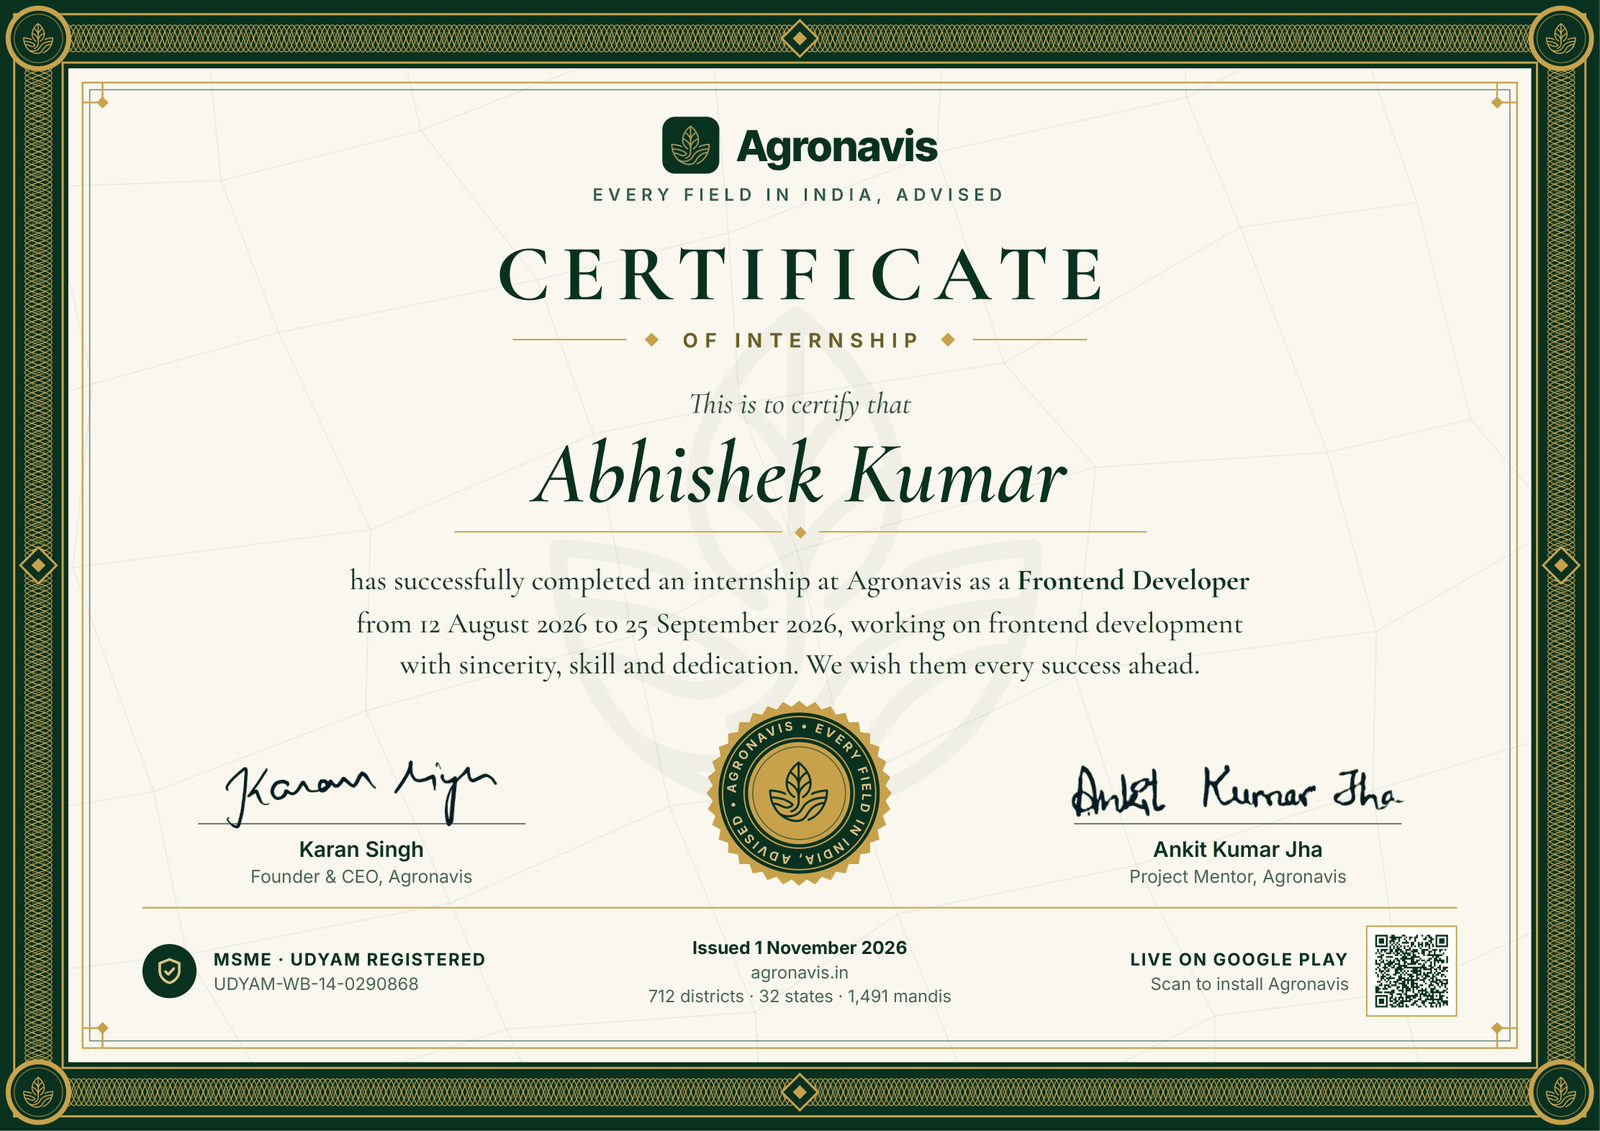
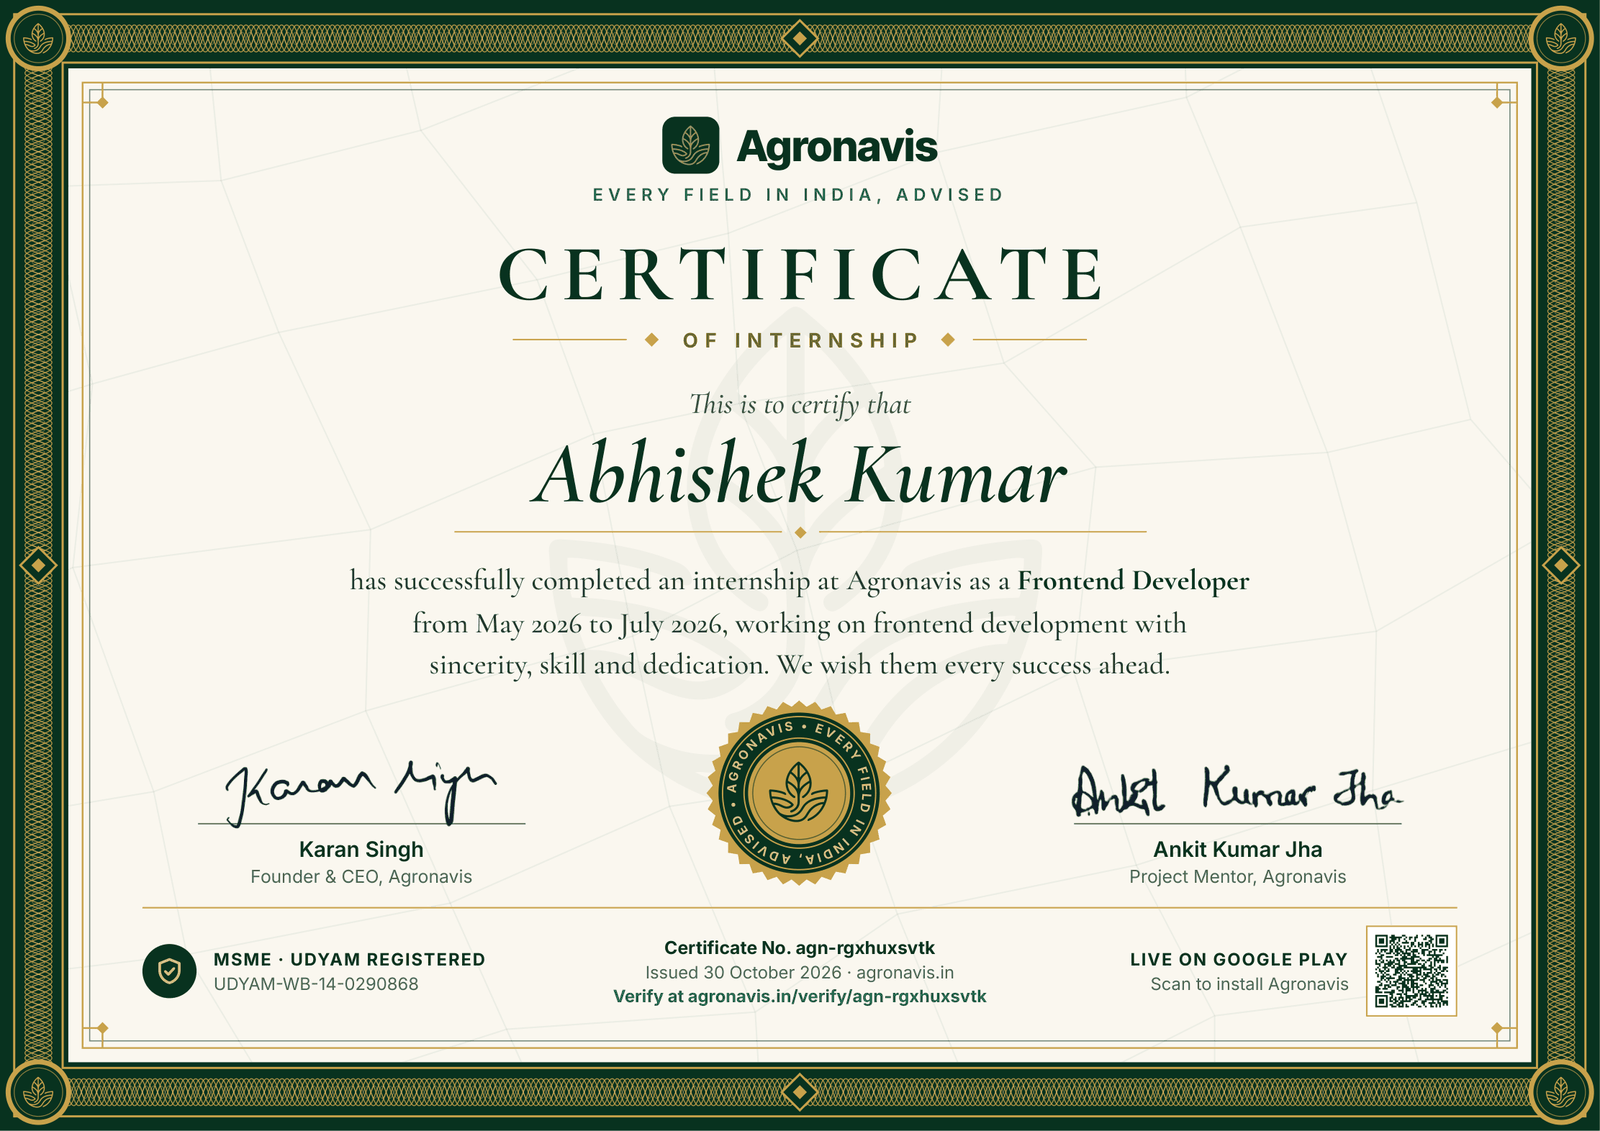
certificate: correct Abhishek Kumar to the reissued document
The reprint carries the certificate number and a different period, May to
July 2026, stated as months rather than exact days.

Dates may now be written as YYYY-MM where that is all the certificate claims.
Rendering 1 May 2026 for a document that says May 2026 would invent precision,
and the page tells verifiers the dates must match the printed copy exactly, so
it has to hold itself to that.

Changed region(s): [[0.2188, 0.5261, 0.7812, 0.6189], [0.375, 0.8355, 0.625, 0.8974]]

diff --git a/data/certificates.ts b/data/certificates.ts
@@ -57,9 +57,9 @@ export const CERTIFICATES: Certificate[] = [
     name: 'Abhishek Kumar',
     kind: 'Internship',
     role: 'Frontend Developer',
-    startedOn: '2026-08-12',
-    endedOn: '2026-09-25',
-    issuedOn: '2026-11-01',
+    startedOn: '2026-05',
+    endedOn: '2026-07',
+    issuedOn: '2026-10-30',
   },
 ];
 
@@ -72,16 +72,30 @@ export function findCertificate(input: string): Certificate | null {
   return q ? (CERTIFICATES.find((c) => squash(c.id) === q) ?? null) : null;
 }
 
+/**
+ * Dates are written at whatever precision the certificate states: YYYY-MM-DD
+ * for an exact day, YYYY-MM when the paper only says the month. The page must
+ * not claim a precision the document does not, because it tells verifiers the
+ * dates have to match the printed copy exactly.
+ */
 export const formatDate = (iso: string): string =>
-  new Date(`${iso}T00:00:00Z`).toLocaleDateString('en-IN', {
-    day: 'numeric', month: 'long', year: 'numeric', timeZone: 'UTC',
+  new Date(`${iso.length === 7 ? `${iso}-01` : iso}T00:00:00Z`).toLocaleDateString('en-IN', {
+    ...(iso.length === 7 ? {} : { day: 'numeric' }),
+    month: 'long',
+    year: 'numeric',
+    timeZone: 'UTC',
   });
 
-/** A human span for the duration line. */
+/** A human span, kept to the precision the dates were given in. */
 export function duration(from: string, to: string): string {
-  const days = Math.round(
-    (Date.parse(`${to}T00:00:00Z`) - Date.parse(`${from}T00:00:00Z`)) / 86_400_000,
-  ) + 1;
+  if (from.length === 7 || to.length === 7) {
+    const [fy, fm] = from.split('-').map(Number);
+    const [ty, tm] = to.split('-').map(Number);
+    const months = (ty! - fy!) * 12 + (tm! - fm!) + 1;
+    return `${months} month${months === 1 ? '' : 's'}`;
+  }
+  const days =
+    Math.round((Date.parse(`${to}T00:00:00Z`) - Date.parse(`${from}T00:00:00Z`)) / 86_400_000) + 1;
   if (days < 14) return `${days} days`;
   const weeks = Math.floor(days / 7);
   return weeks >= 8 ? `${Math.round(days / 30.44)} months` : `${weeks} weeks`;
